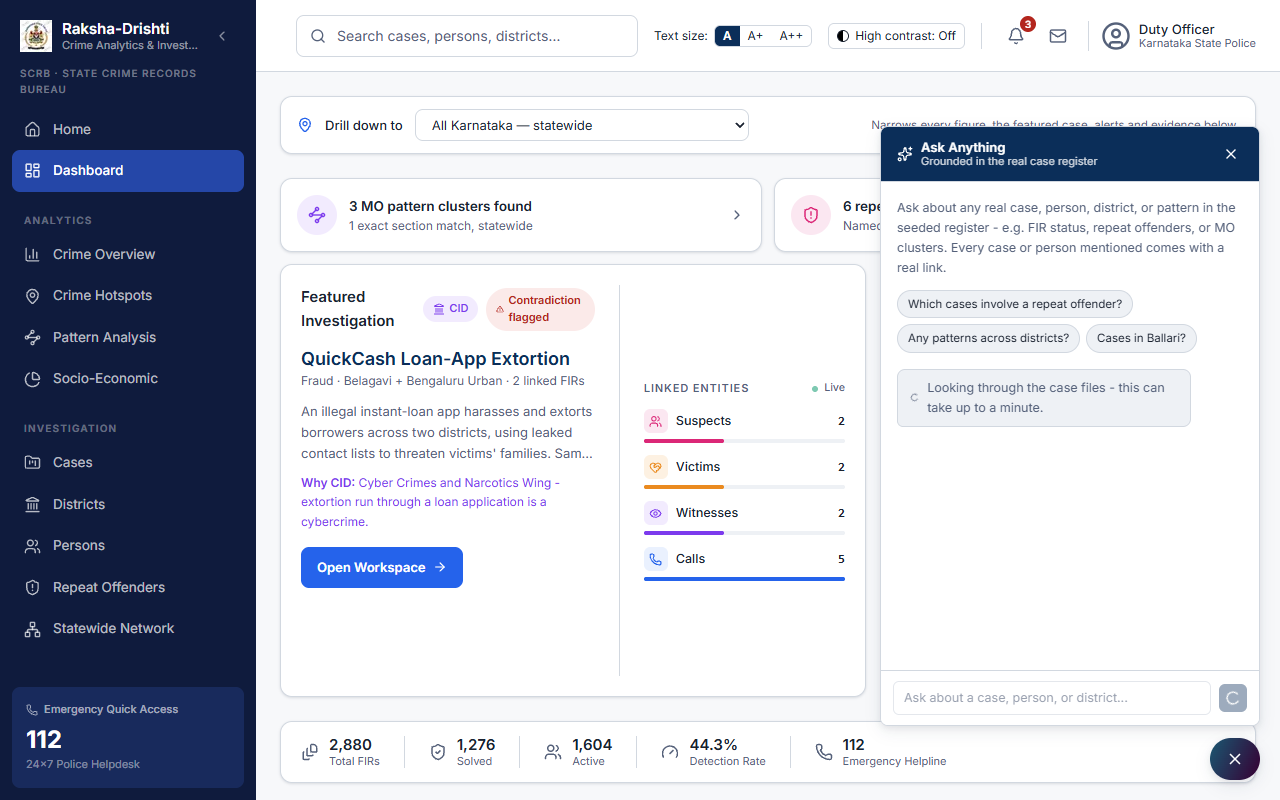
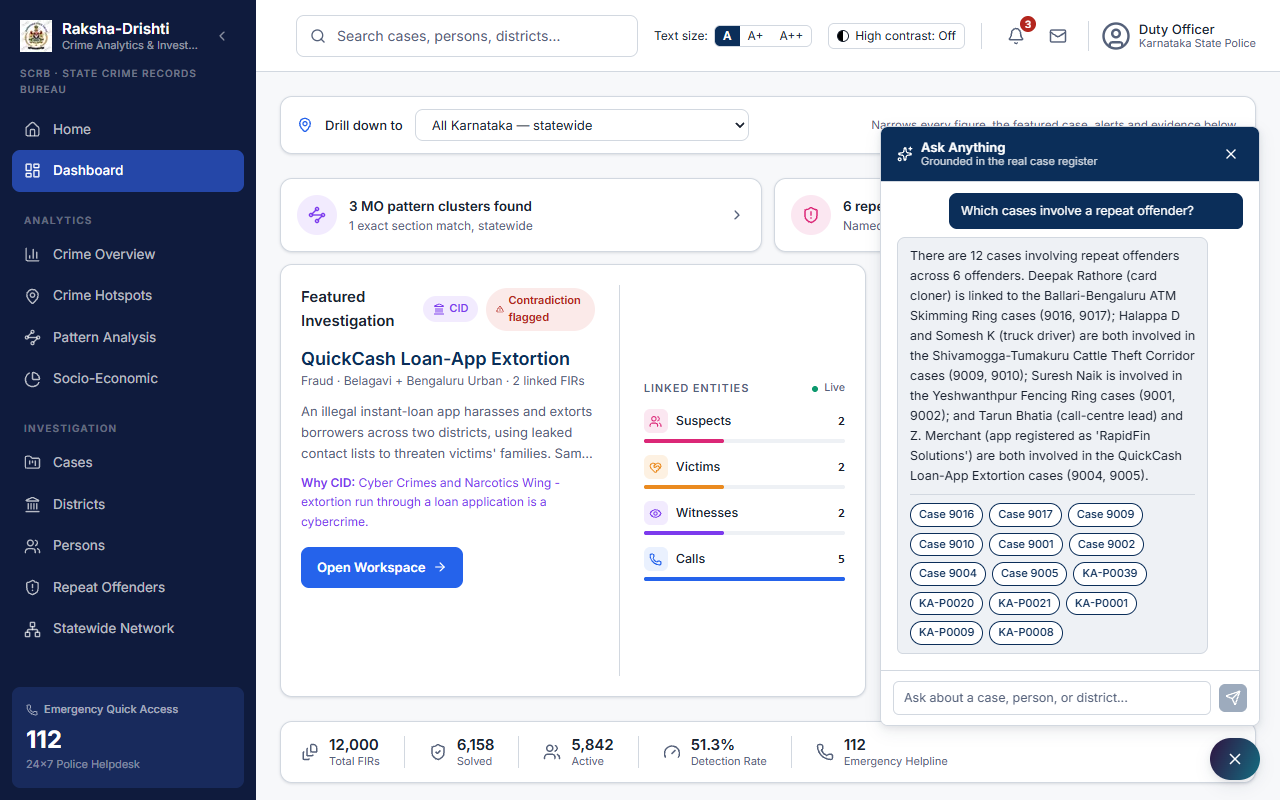
docs: recapture the two demo screenshots that no longer matched the app
Both were showing a worse product than the one that exists.

demo-hotspots.png was captured before P1.7 and showed 8 isolated
clusters over 5,000 FIRs. The same view now renders a continuous
kernel-density surface across all 31 Karnataka districts with 12,000
plotted FIRs - Bidar, Kalaburagi, Vijayapura, Raichur, Hubballi,
Hosapete, Mangaluru and Kolar all now carry visible density where the
old shot had empty map.

demo-ask.png was captured while the Ask Anything multi-round loop was
still broken, so it deliberately showed a mid-query loading state
rather than a fake answer. That was the honest choice at the time; it
is now just out of date. Replaced with one real, unedited round trip:
two tool rounds, six repeat offenders across twelve cases, fourteen
clickable citations, zero hallucinated ids - with the dashboard behind
it reading 12,000 total FIRs.

Captions updated to match, including dropping the "occasionally gives
up rather than guess" hedge from the Ask Anything blurb, which
described the pre-fix behaviour.

Both captured the same way as the originals: headless Chromium against
a local production build with real credentials, at 1280x800.

diff --git a/assets/README.md b/assets/README.md
@@ -27,10 +27,10 @@ driven directly (Puppeteer), not a manual screenshot tool.
 
 | File | Shot | Real finding while capturing |
 |---|---|---|
-| `demo-hotspots.png` | Kernel-density mode, statewide | ⚠ **Stale.** Captured pre-P1.7, so it shows 5,000 FIRs across 8 districts; the app now renders 12,000 across all 31. Recapture before the next submission. |
+| `demo-hotspots.png` | Kernel-density mode, statewide — **recaptured 2026-09-02** after P1.7, all 31 districts and 12,000 plotted FIRs | The pre-P1.7 shot showed 8 isolated clusters; the same view now carries a continuous density surface across the whole state. |
 | `demo-case.png` | Case 9001, scrolled to the verified + AI-detected contradiction cards, cited record IDs legible | — |
 | `demo-fusion.png` | KA-P0001 (Suresh Naik), scrolled to show the suspicion score's real factor breakdown *and* the full cross-source timeline in one frame | — |
-| `demo-ask.png` | Ask Anything, **mid-query** (loading state), not a completed answer | Captured when the real question ("Which cases involve a repeat offender?") didn't complete: the multi-round tool-calling loop gave up after too many rounds (a real, honest error message, not a crash or a fake answer). **Fixed and live-verified 2026-08-31** — see PLAN.md's P5.8 entry for the 3 real bugs found (a loop off-by-one, and `role:"tool"` messages the model was silently ignoring, plus a broken `tool_choice` path). The exact same question now returns a real, correctly-cited answer end to end. This screenshot is stale as of the fix — worth a fresh capture (a real completed answer with visible citation chips) next time the demo assets are touched, rather than the loading state. |
+| `demo-ask.png` | Ask Anything with a **completed, cited answer** — recaptured 2026-09-02 | Replaces the old loading-state shot, which was captured while the multi-round loop was still broken (3 real bugs, fixed 2026-08-31 — see PLAN.md P5.8). The same question now returns 2 tool rounds, 6 repeat offenders across 12 cases, and 14 validated citation chips with zero hallucinated ids. |
 
 **Still open: upgrade these to real animated GIFs.** The shot list originally
 planned for each (layer transitions + time scrub for hotspots, the full FIR

diff --git a/README.md b/README.md
@@ -98,10 +98,10 @@ One individual assembled from calls, CCTV, transactions and statements — acros
 <td width="50%">
 
 <!-- Static screenshot for now - see assets/README.md for the animated-GIF upgrade path -->
-<img src="assets/demo-ask.png" alt="Ask Anything mid-query, showing the real tool-calling round in progress, not a canned response" width="100%">
+<img src="assets/demo-ask.png" alt="Ask Anything answering a real question with 14 validated, clickable citations" width="100%">
 
 **Ask Anything**
-A tool-calling agent over the whole dataset — not a prompt stuffed with 12,000 rows — every citation checked against the real register before it can render. Multi-round tool calls can take real time (or occasionally give up rather than guess); shown here mid-query, not a canned response.
+A tool-calling agent over the whole dataset — not a prompt stuffed with 12,000 rows — every citation checked against the real register before it can render. This is one real, unedited round trip: two tool rounds, six repeat offenders found across twelve cases, **fourteen clickable citations, none hallucinated**.
 
 </td>
 </tr>
